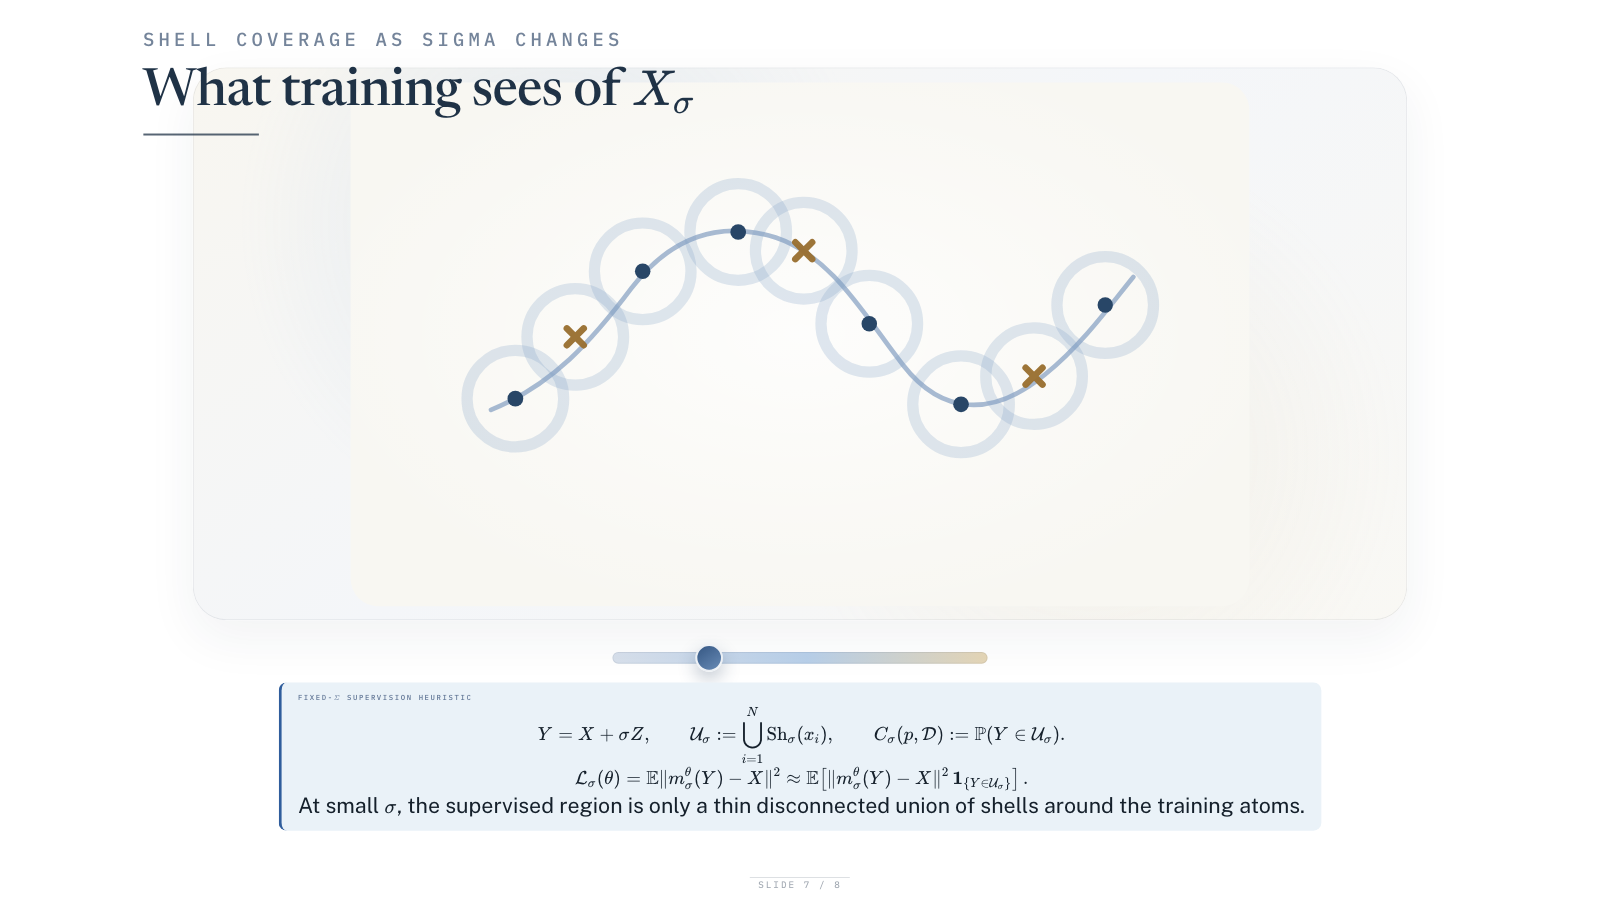
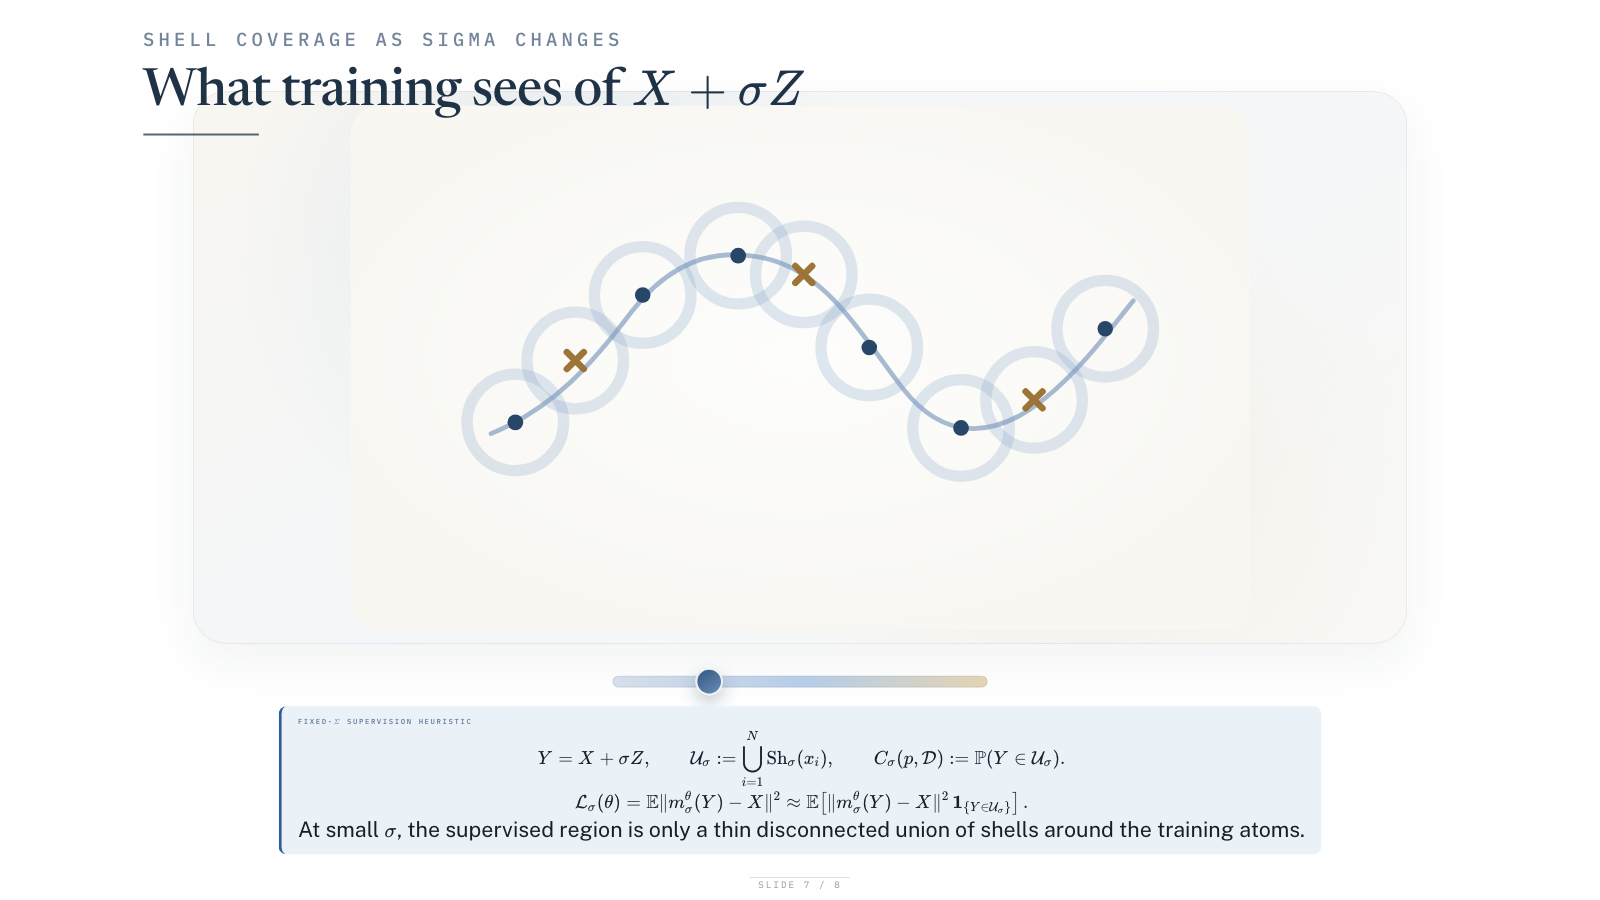
Adjust slide 7 training view

diff --git a/07-shells-separate-at-small-sigma.html b/07-shells-separate-at-small-sigma.html
@@ -3,7 +3,7 @@
 <head>
   <meta charset="utf-8">
   <meta name="viewport" content="width=device-width, initial-scale=1.0, maximum-scale=1.0, user-scalable=no">
-  <title>ICML Presentation · Slide 7 · What training sees of Xσ</title>
+  <title>ICML Presentation · Slide 7 · What training sees of X + σZ</title>
   <link rel="preconnect" href="https://fonts.googleapis.com">
   <link rel="preconnect" href="https://fonts.gstatic.com" crossorigin>
   <link href="https://fonts.googleapis.com/css2?family=IBM+Plex+Mono:wght@400;500&family=Newsreader:opsz,wght@6..72,400;6..72,500;6..72,600;6..72,700&family=Public+Sans:wght@300;400;500;600;700&display=swap" rel="stylesheet">
@@ -69,6 +69,7 @@
       align-items: center;
       justify-content: center;
       gap: 0.24em;
+      transform: translateY(0.25in);
     }
 
     .shell-control-frame {
@@ -210,7 +211,7 @@
     <div class="slides">
       <section class="shell-control-slide">
         <div class="sr-only">What training sees of X sigma as shell coverage changes</div>
-        <h2 data-kicker="Shell coverage as sigma changes" style="position:absolute; left:0.65em; top:0.2em; margin:0; z-index:2;">What training sees of $X_\sigma$</h2>
+        <h2 data-kicker="Shell coverage as sigma changes" style="position:absolute; left:0.65em; top:0.2em; margin:0; z-index:2;">What training sees of $X+\sigma Z$</h2>
 
         <div class="shell-control-stage">
           <div class="shell-control-frame">
